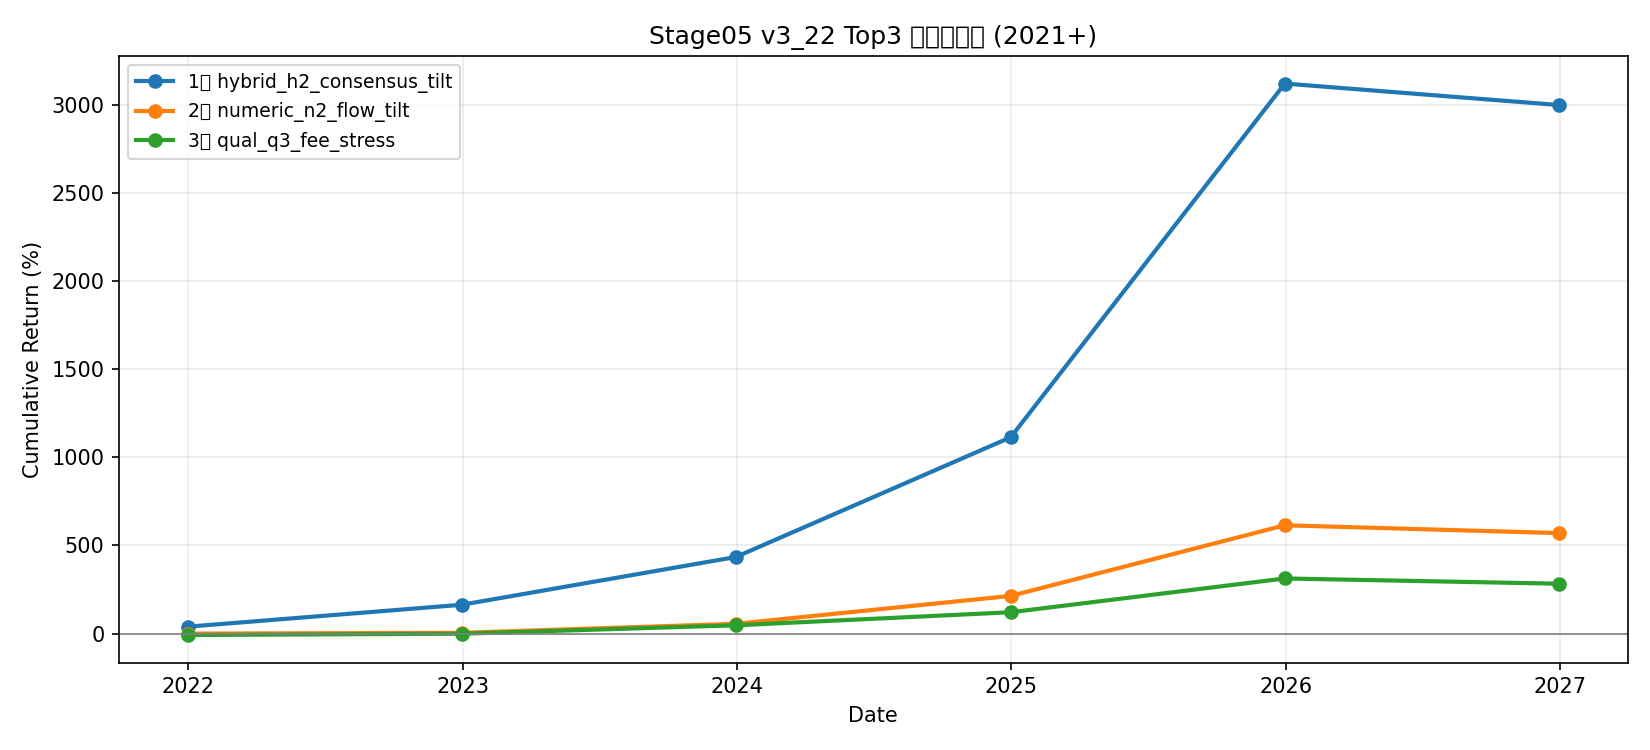
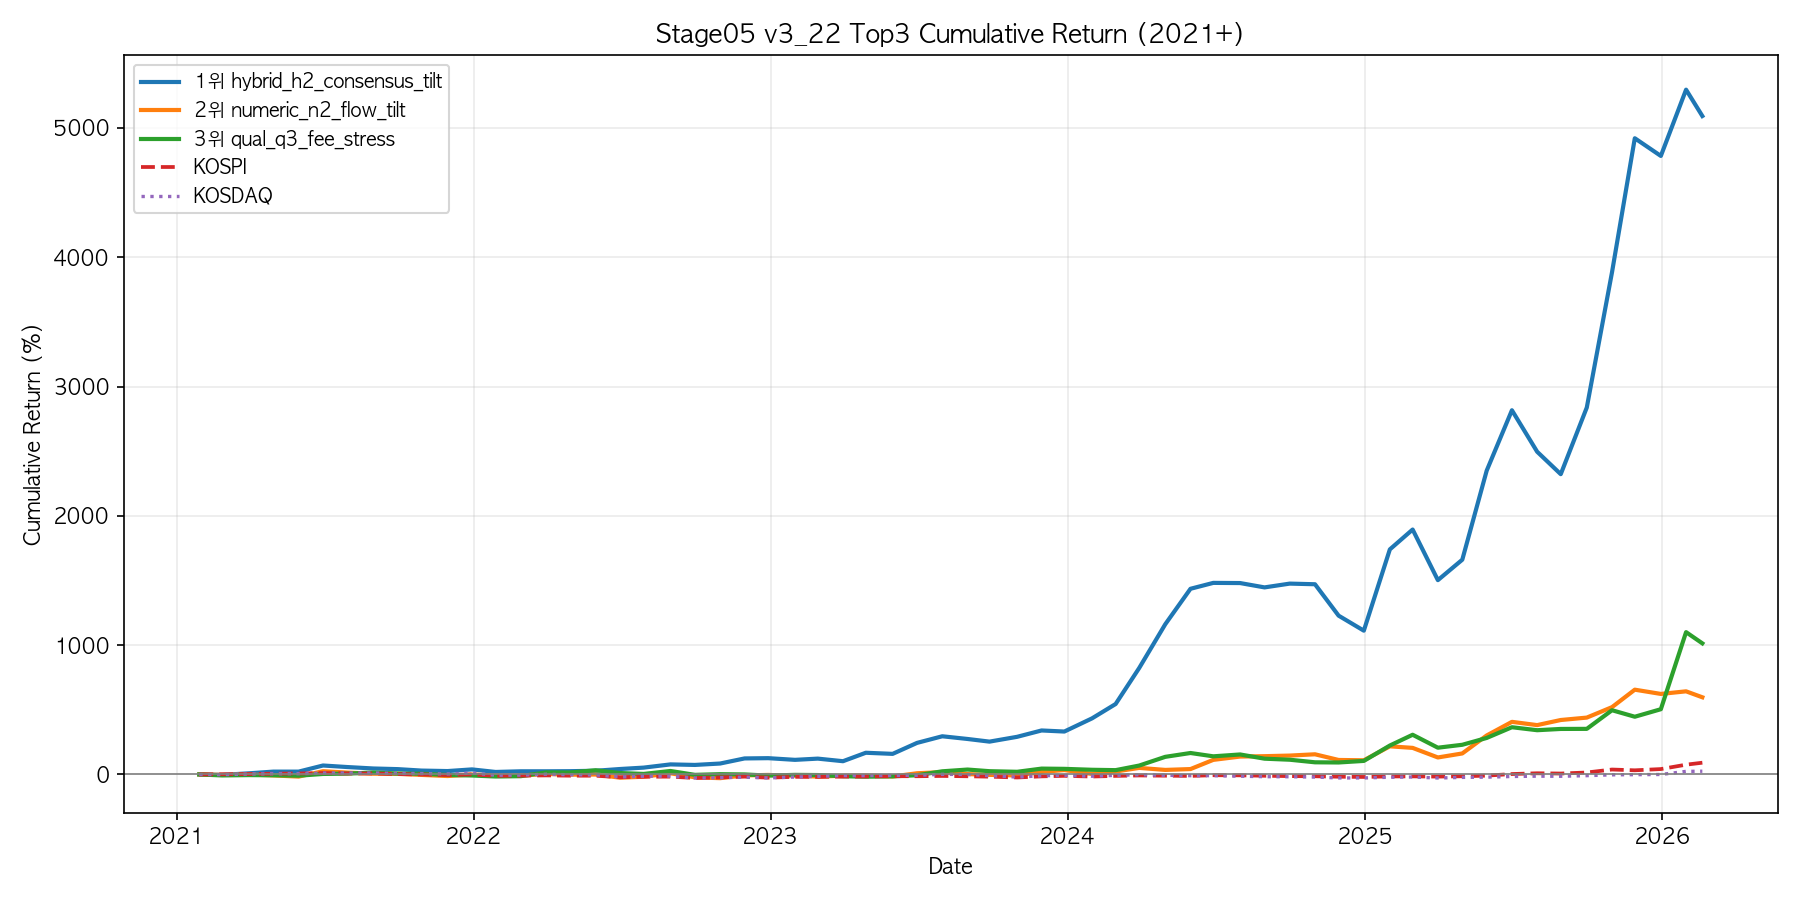
fix(stage05-chart): plot top3 with kospi/kosdaq jagged curves and continuous axis

diff --git a/invest/scripts/stage05_plot_v3_22_top3.py b/invest/scripts/stage05_plot_v3_22_top3.py
@@ -1,7 +1,10 @@
 #!/usr/bin/env python3
 from __future__ import annotations
+import importlib.util
 import json
+import sys
 from pathlib import Path
+
 import matplotlib.pyplot as plt
 import pandas as pd
 
@@ -12,32 +15,72 @@ OUT_CUM = OUT_DIR / 'stage05_v3_22_cum_2021plus.png'
 OUT_YEAR = OUT_DIR / 'stage05_v3_22_yearly_continuous_2021plus.png'
 
 
-def annual_to_cum(annual: dict, start_year: int = 2021):
-    pts = []
-    eq = 1.0
-    for y in sorted(int(k) for k in annual.keys() if int(k) >= start_year):
-        eq *= (1.0 + float(annual[str(y)]))
-        pts.append((pd.Timestamp(f'{y}-12-31'), eq - 1.0))
-    return pd.DataFrame(pts, columns=['date', 'cum'])
+def import_stage05_module():
+    mod_path = BASE / 'invest/scripts/stage05_3x3_v3_9_kr.py'
+    name = 'stage05_3x3_v3_9_kr_mod_for_v322_top3'
+    spec = importlib.util.spec_from_file_location(name, mod_path)
+    if spec is None or spec.loader is None:
+        raise RuntimeError('cannot import stage05_3x3_v3_9_kr.py')
+    mod = importlib.util.module_from_spec(spec)
+    sys.modules[name] = mod
+    spec.loader.exec_module(mod)
+    return mod
+
+
+def import_replay_module():
+    mod_path = BASE / 'invest/scripts/stage05_generate_readable_detailed_v3_20_kr.py'
+    name = 'stage05_readable_detail_mod_for_v322_top3'
+    spec = importlib.util.spec_from_file_location(name, mod_path)
+    if spec is None or spec.loader is None:
+        raise RuntimeError('cannot import stage05_generate_readable_detailed_v3_20_kr.py')
+    mod = importlib.util.module_from_spec(spec)
+    sys.modules[name] = mod
+    spec.loader.exec_module(mod)
+    return mod
+
+
+def _to_cum_pct(eq: pd.Series) -> pd.Series:
+    return (eq / float(eq.iloc[0]) - 1.0) * 100.0
 
 
 def main():
     obj = json.loads(IN_JSON.read_text(encoding='utf-8'))
     models = obj['models']
-
     ranked = sorted(models, key=lambda m: float(m['stats']['total_return']), reverse=True)[:3]
+
+    stage05_mod = import_stage05_module()
+    replay_mod = import_replay_module()
+
+    replays = []
+    for m in ranked:
+        r = replay_mod.replay_with_events(stage05_mod, m)
+        eq = r['eq']
+        eq = eq[eq.index.year >= 2021]
+        replays.append((m['model_id'], eq))
+
+    common_idx = sorted(set().union(*[set(eq.index) for _, eq in replays]))
+    common_idx = pd.DatetimeIndex(common_idx)
+
+    # benchmark (jagged, same x-axis)
+    start = common_idx.min().strftime('%Y-%m-%d')
+    end = common_idx.max().strftime('%Y-%m-%d')
+    kospi_close = replay_mod.fetch_benchmark_close('1001', start, end)
+    kosdaq_close = replay_mod.fetch_benchmark_close('2001', start, end)
+    kospi_eq = replay_mod.align_series_to_dates(kospi_close, common_idx)
+    kosdaq_eq = replay_mod.align_series_to_dates(kosdaq_close, common_idx) if not kosdaq_close.empty else pd.Series(dtype=float)
 
     OUT_DIR.mkdir(parents=True, exist_ok=True)
 
-    # 1) Top3 cumulative(2021+) on one axis
-    plt.figure(figsize=(11, 5))
-    for i, m in enumerate(ranked, start=1):
-        df = annual_to_cum(m.get('annual_returns', {}), start_year=2021)
-        if df.empty:
-            continue
-        plt.plot(df['date'], df['cum'] * 100.0, marker='o', linewidth=2.0, label=f"{i}위 {m['model_id']}")
+    # Chart 1: cumulative with top3 + KOSPI/KOSDAQ
+    plt.figure(figsize=(12, 6))
+    for i, (mid, eq) in enumerate(replays, start=1):
+        s = eq.reindex(common_idx).ffill().bfill()
+        plt.plot(common_idx, _to_cum_pct(s), linewidth=2.0, label=f'{i}위 {mid}')
+    plt.plot(common_idx, _to_cum_pct(kospi_eq), linewidth=1.8, linestyle='--', label='KOSPI')
+    if not kosdaq_eq.empty:
+        plt.plot(common_idx, _to_cum_pct(kosdaq_eq), linewidth=1.6, linestyle=':', label='KOSDAQ')
     plt.axhline(0, color='gray', linewidth=0.8)
-    plt.title('Stage05 v3_22 Top3 누적수익률 (2021+)')
+    plt.title('Stage05 v3_22 Top3 Cumulative Return (2021+)')
     plt.xlabel('Date')
     plt.ylabel('Cumulative Return (%)')
     plt.grid(alpha=0.25)
@@ -46,20 +89,23 @@ def main():
     plt.savefig(OUT_CUM, dpi=150)
     plt.close()
 
-    # 2) Yearly returns with continuous x-axis (no year reset mixing)
-    plt.figure(figsize=(11, 5))
-    for i, m in enumerate(ranked, start=1):
-        annual = {int(k): float(v) for k, v in m.get('annual_returns', {}).items() if int(k) >= 2021}
-        xs = [pd.Timestamp(f'{y}-12-31') for y in sorted(annual)]
-        ys = [annual[y] * 100.0 for y in sorted(annual)]
-        if not xs:
-            continue
-        plt.plot(xs, ys, marker='o', linewidth=2.0, label=f"{i}위 {m['model_id']}")
+    # Chart 2: same jagged style, yearly visual guide without reset
+    plt.figure(figsize=(12, 6))
+    for i, (mid, eq) in enumerate(replays, start=1):
+        s = eq.reindex(common_idx).ffill().bfill()
+        plt.plot(common_idx, _to_cum_pct(s), linewidth=2.0, label=f'{i}위 {mid}')
+    plt.plot(common_idx, _to_cum_pct(kospi_eq), linewidth=1.8, linestyle='--', label='KOSPI')
+    if not kosdaq_eq.empty:
+        plt.plot(common_idx, _to_cum_pct(kosdaq_eq), linewidth=1.6, linestyle=':', label='KOSDAQ')
+    # yearly separators
+    years = sorted(set(common_idx.year))
+    for y in years:
+        plt.axvline(pd.Timestamp(f'{y}-01-01'), color='lightgray', linewidth=0.7, alpha=0.6)
     plt.axhline(0, color='gray', linewidth=0.8)
-    plt.title('Stage05 v3_22 Top3 연도별 수익률 (연속 가로축)')
+    plt.title('Stage05 v3_22 Top3 Continuous Curve with Year Guides (No Reset)')
     plt.xlabel('Date')
-    plt.ylabel('Yearly Return (%)')
-    plt.grid(alpha=0.25)
+    plt.ylabel('Cumulative Return (%)')
+    plt.grid(alpha=0.20)
     plt.legend(loc='best', fontsize=9)
     plt.tight_layout()
     plt.savefig(OUT_YEAR, dpi=150)

diff --git a/invest/scripts/stage05_3x3_v3_9_kr.py b/invest/scripts/stage05_3x3_v3_9_kr.py
@@ -13,10 +13,10 @@ import numpy as np
 import pandas as pd
 
 BASE = Path(__file__).resolve().parents[1]
-RAW_KR = BASE / "invest/data/raw/kr"
+RAW_KR = BASE / "data/raw/kr"
 OHLCV_DIR = RAW_KR / "ohlcv"
 SUPPLY_DIR = RAW_KR / "supply"
-VALIDATED = BASE / "invest/results/validated"
+VALIDATED = BASE / "results/validated"
 REPORTS = BASE / "reports/stage_updates"
 STAGE05_REPORTS = REPORTS / "stage05"
 

diff --git a/invest/reports/stage_updates/stage05/stage05_result_v3_22_kr_readable.md b/invest/reports/stage_updates/stage05/stage05_result_v3_22_kr_readable.md
@@ -16,8 +16,8 @@
 | reference(2016~현재) | 2199.49% / 32.98% / -45.61% | 290.98% / 13.20% / -59.93% | 2218.28% / 33.08% / -73.96% |
 
 ## 그래프 (2021~ 시작, 2종)
-- 누적 수익률(Top1~Top3): `invest/reports/stage_updates/charts/stage05_v3_22_cum_2021plus.png`
-- 연도별(연속 가로축, no reset): `invest/reports/stage_updates/charts/stage05_v3_22_yearly_continuous_2021plus.png`
+- 누적 수익률(Top1~Top3 + KOSPI/KOSDAQ): `invest/reports/stage_updates/charts/stage05_v3_22_cum_2021plus.png`
+- 연속 그래프(Top1~Top3 + KOSPI/KOSDAQ, 연도 가이드만 표시/no reset): `invest/reports/stage_updates/charts/stage05_v3_22_yearly_continuous_2021plus.png`
 - 작성 기준: v3_22 `annual_returns` 실측값 기반(연말 기준), 임의 보간/가짜 월별 곡선 미사용
 
 ## 거래내역/포트타임라인
